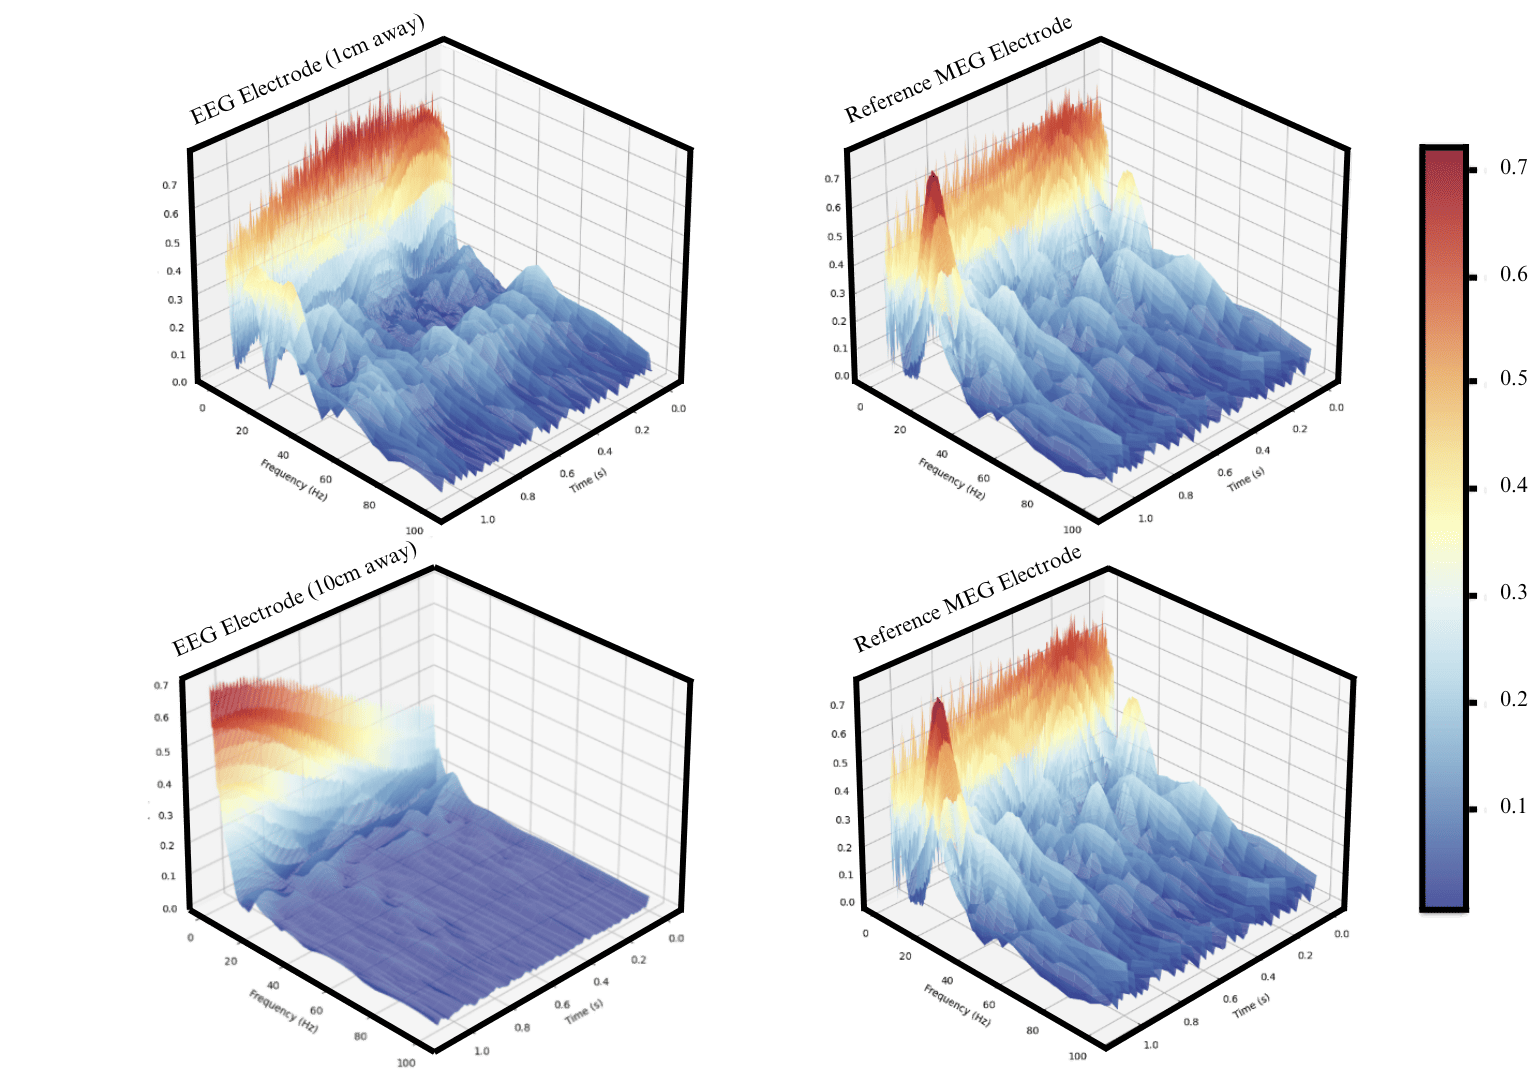
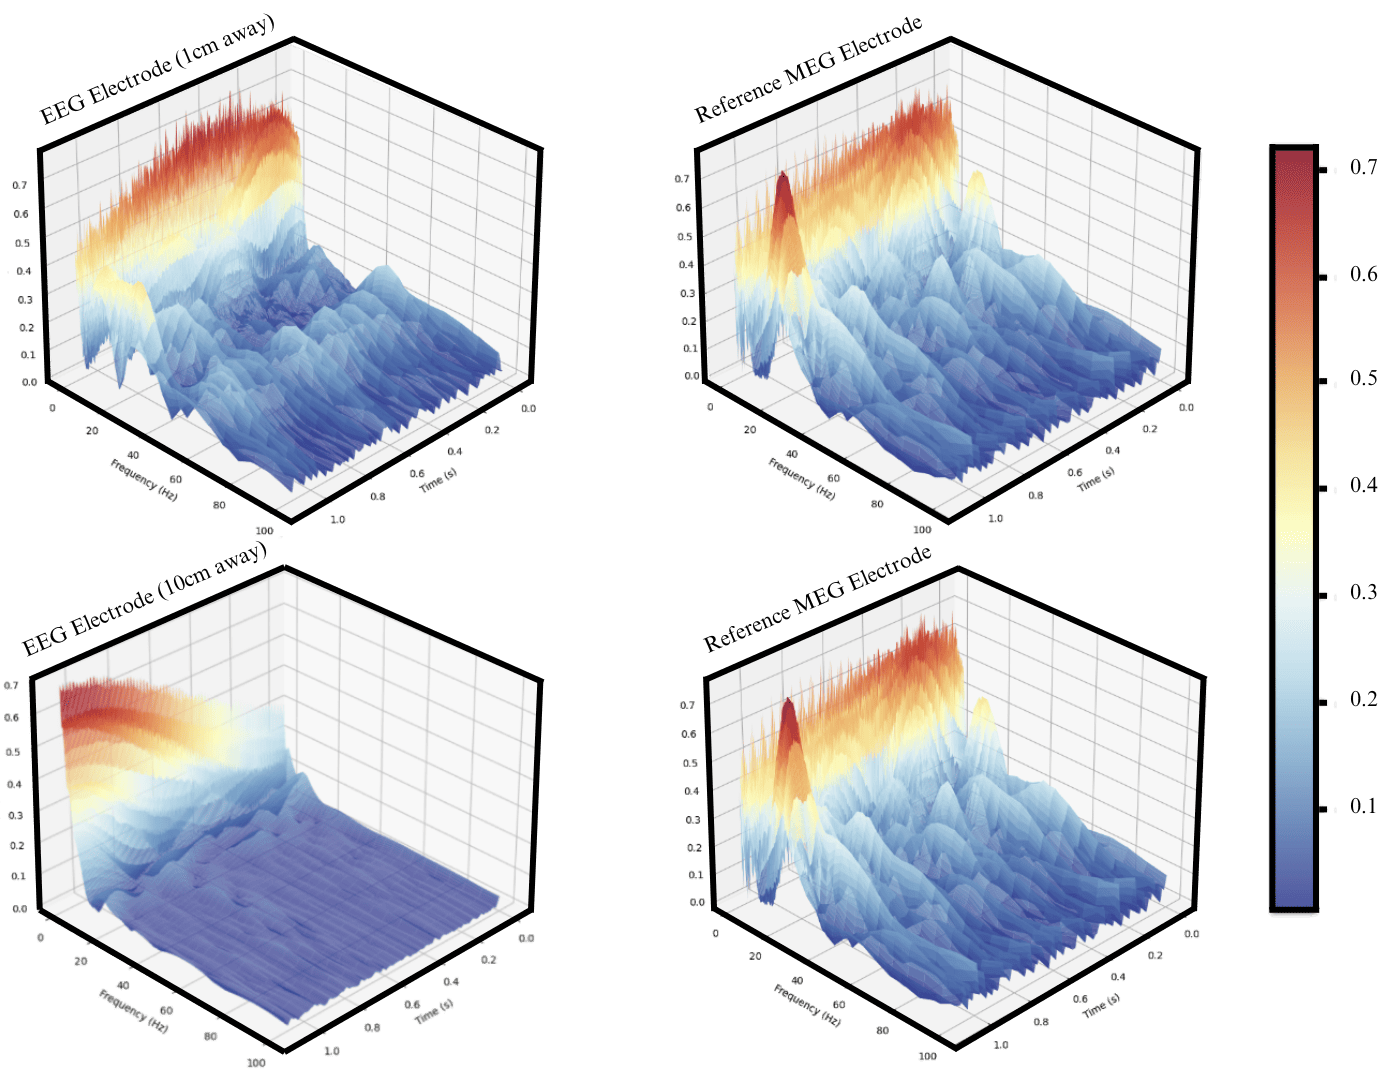
BCI paper

diff --git a/_research/Super-resoluting BCI's Via Cross-Modal Transfer copy 2.md b/_research/Super-resoluting BCI's Via Cross-Modal Transfer copy 2.md
@@ -298,7 +298,7 @@ We find that when both signals are either normalized or standardised MI for near
 
 This can also be intuitively seen in the waveleted signal, where closer electrodes share more resemblance.
 
-<p align="center"><img src="../images/refelectrode.png" alt="Alt text" style="max-width: 80%; height: auto; border-radius: 10px;"></p>
+<p align="center"><img src="../images/refelectrode.png" alt="Alt text" style="max-width: 100%; height: auto; border-radius: 10px;"></p>
 
 
 <h4 style="margin-bottom: 0"><u>6.2 Signal Reconstruction Accuracy</u></h4> 
